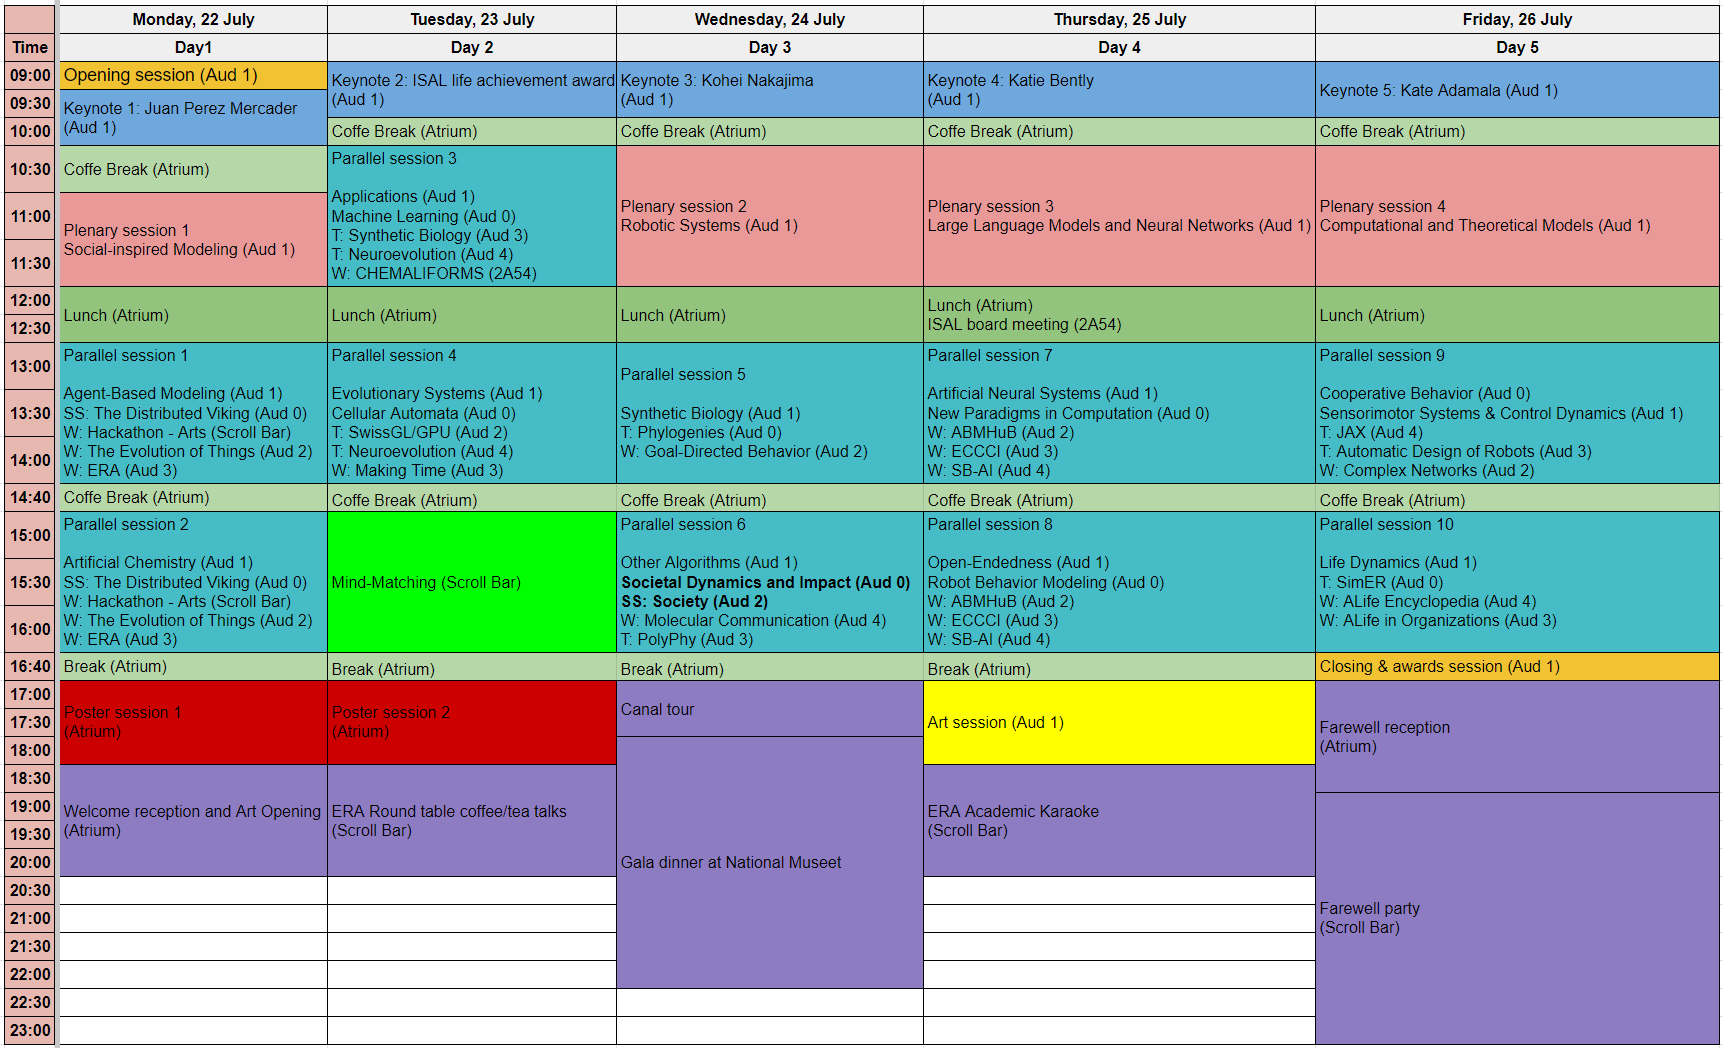
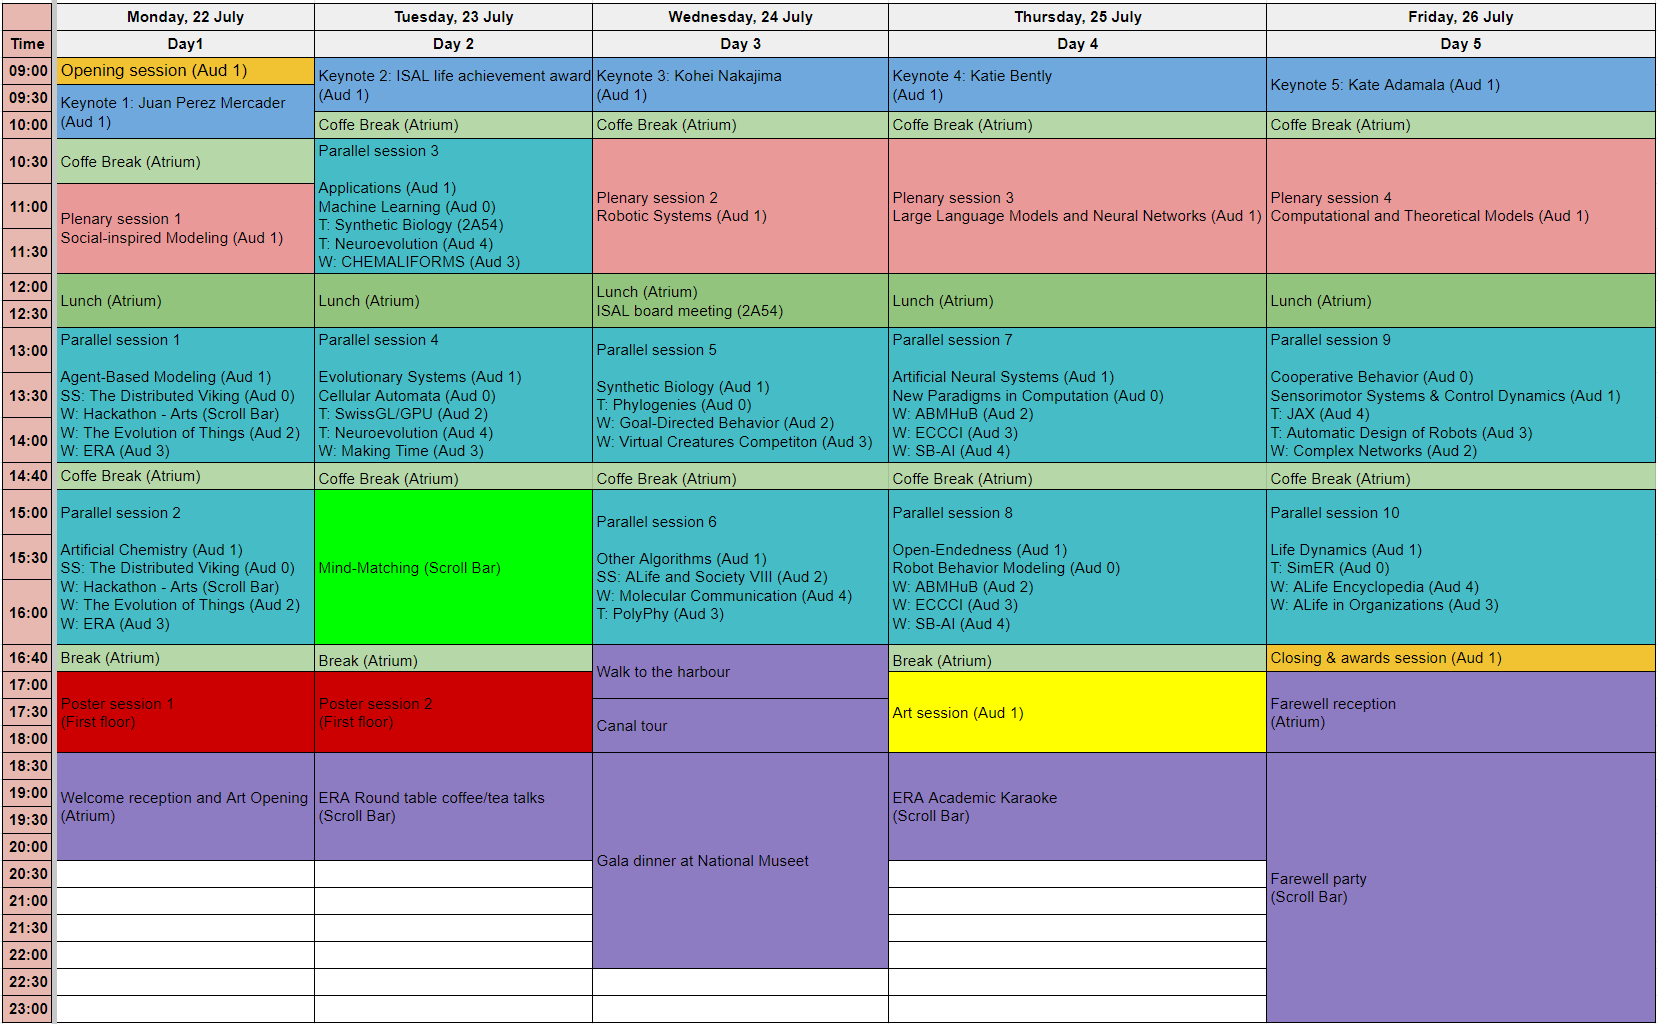
Update timetable image and location of poster sessions.

Changed region(s): [[0.0, 0.0, 1.0, 1.0], [0.5232, 0.1875, 0.9541, 0.2188], [0.3386, 0.1875, 0.4617, 0.2188]]

diff --git a/detailed_program.html b/detailed_program.html
@@ -91,7 +91,7 @@
 							<tr>
 								<td><b style="color:#000000">17:00</b></td>
 								<td colspan="80%"><b style="color:#000000"><a href="#postersday1" style="color:#000000">Poster session 1</a></b></td>
-								<td colspan="20%">Atrium</td>
+								<td colspan="20%">First floor</td>
 							</tr>
 							<tr>
 								<td><b style="color:#000000">18:30</b></td>
@@ -149,7 +149,7 @@
 							<tr>
 								<td><b style="color:#000000">17:00</b></td>
 								<td colspan="80%"><b style="color:#000000"><a href="#postersday2" style="color:#000000">Poster session 2</a></b></td>
-								<td colspan="20%">Atrium</td>
+								<td colspan="20%">First floor</td>
 							</tr>
 							<tr>
 								<td><b style="color:#000000">18:30</b></td>
@@ -1043,6 +1043,8 @@
 
 
 									<header class="style1" style="padding:1em"><h2 id="postersday1">Posters - Day 1</h2></header>
+									<b><i>First floor</i></b><br />
+									<div style="font-size: smaller;">[LBA]: Late Breaking Abstract</div>
 									<ul class="nav_list">
 									<li>
 									<b>The role of n in the n-mates evaluation method: a quantitative analysis</b><br /><i>Paolo Pagliuca and Alessandra Vitanza</i>
@@ -1090,6 +1092,8 @@
 																
 
 									<hr><header class="style1" style="padding:1em"><h2 id="postersday2">Posters - Day 2</h2></header>
+									<b><i>First floor</i></b><br />
+									<div style="font-size: smaller;">[LBA]: Late Breaking Abstract</div>
 									<ul class="nav_list">
 									<li>
 									<b>Only ad-hoc solutions can solve the shutdown problem</b><br /><i>Daniel Platt</i>

diff --git a/event-poster-1.html b/event-poster-1.html
@@ -1,6 +1,6 @@
 <div class="cd-schedule-modal__event-info">
 	<div>
 		<b><a href="detailed_program.html#postersday1">Poster session 1</a></b><br /><br />
-		Room: Atrium
+		Room: First floor
 	</div>
 </div>

diff --git a/event-poster-2.html b/event-poster-2.html
@@ -1,6 +1,6 @@
 <div class="cd-schedule-modal__event-info">
 	<div>
 		<b><a href="detailed_program.html#postersday2">Poster session 2</a></b><br /><br />
-		Room: Atrium
+		Room: First floor
 	</div>
 </div>
